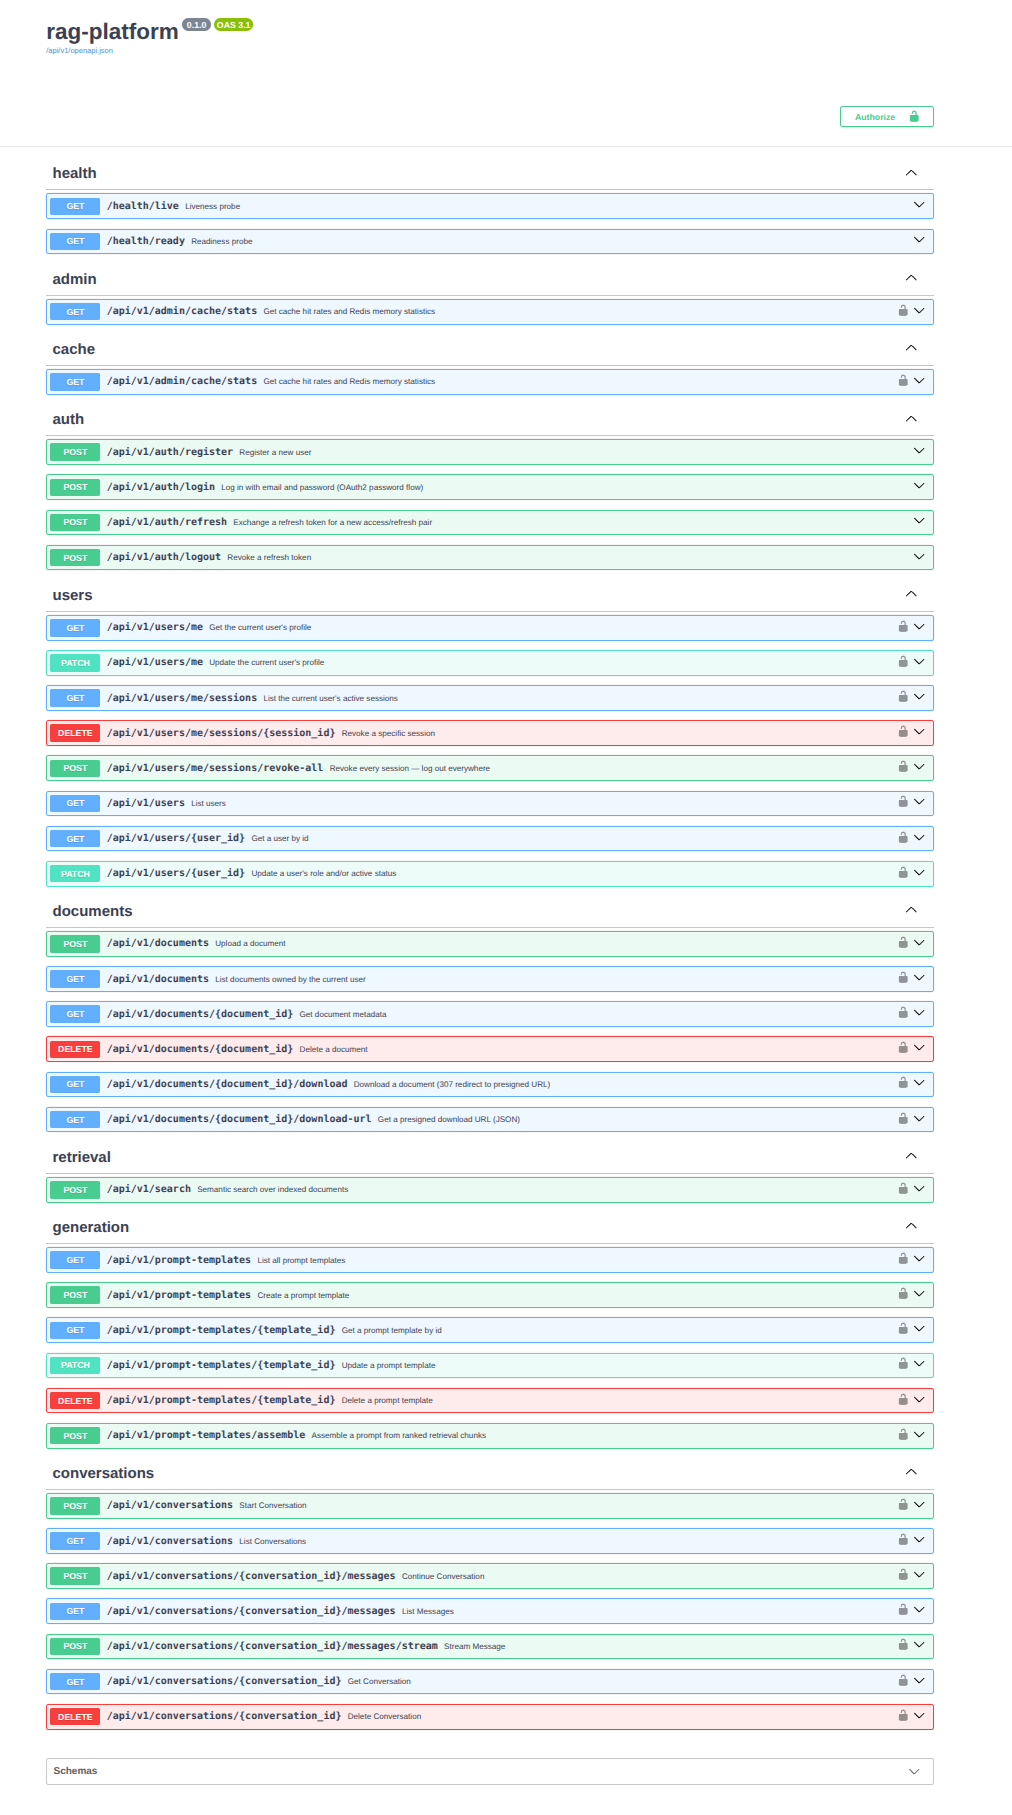
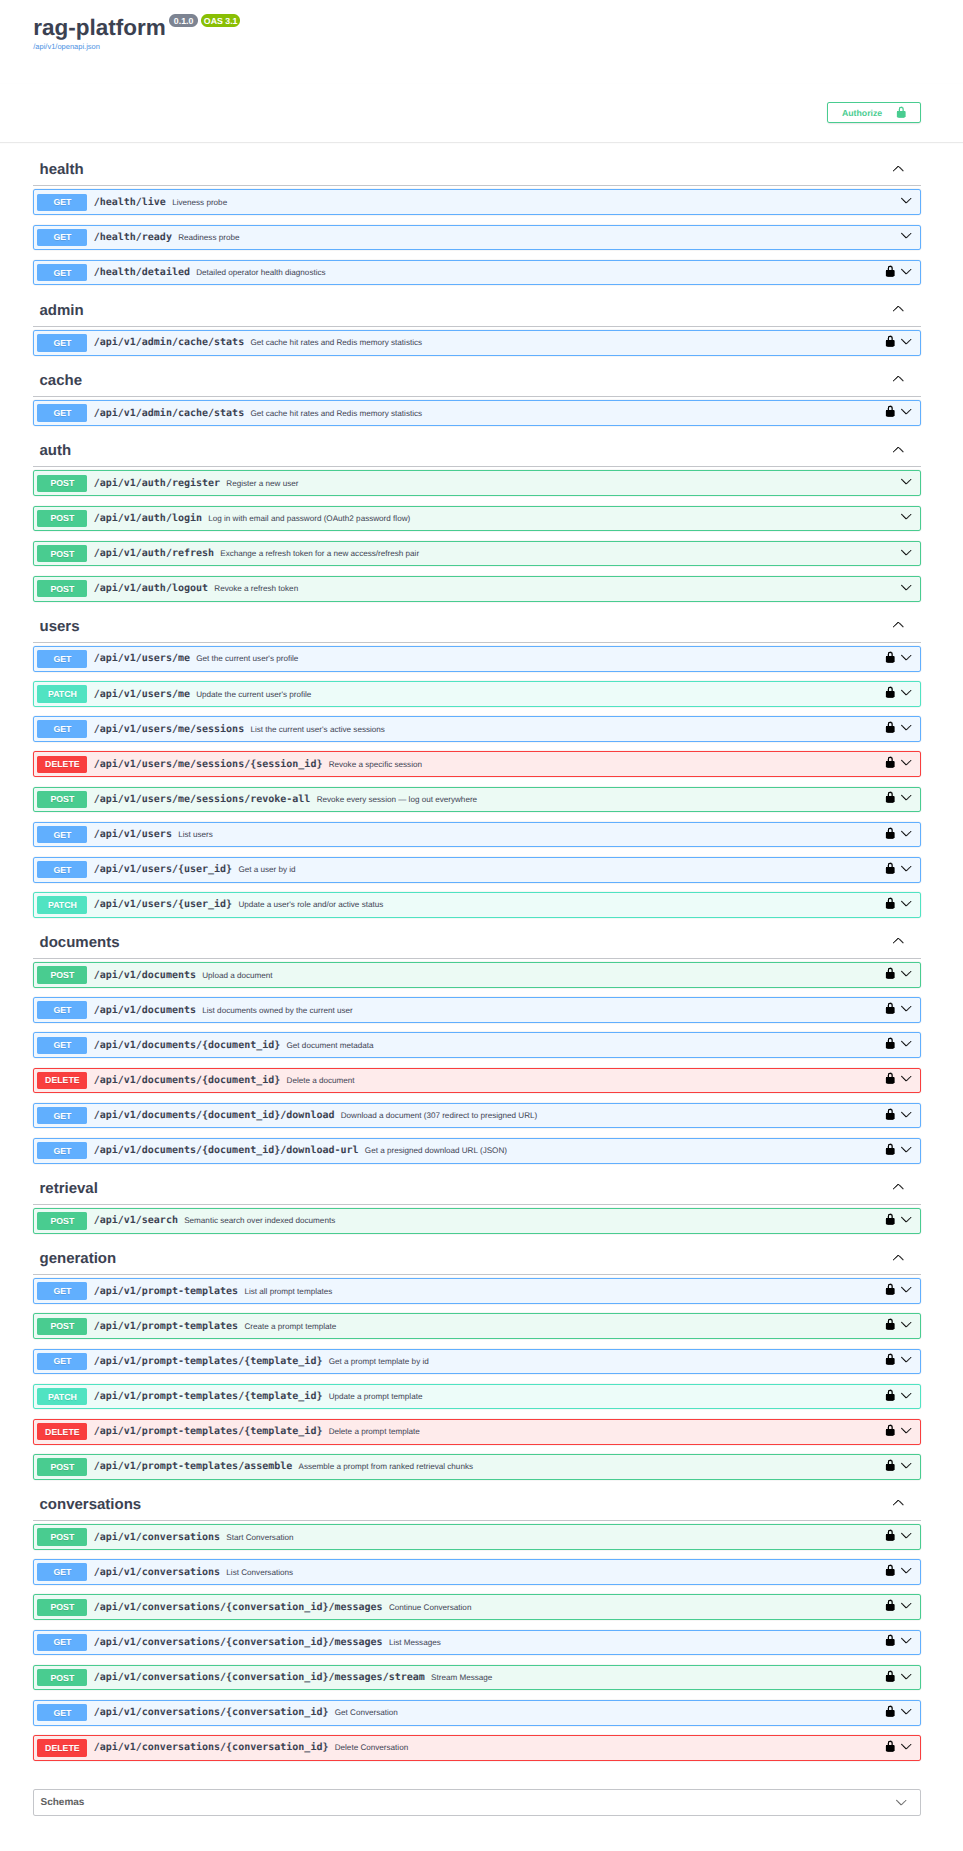
fix: resolve DB Conn Issues, Test Failures, NullPool stats, numpy/scipy compat, and mypy errors

Changed region(s): [[0.0312, 0.0617, 0.9657, 0.9873], [0.0312, 0.0, 0.2492, 0.0309]]

diff --git a/src/rag_platform/core/telemetry.py b/src/rag_platform/core/telemetry.py
@@ -22,19 +22,35 @@ _sqlalchemy_instrumented_engines: set[int] = set()
 
 
 def configure_tracing(settings: Settings) -> None:
-    """Configure process-wide tracing once, using a swappable OTLP exporter."""
+    """Configure process-wide tracing once, using a swappable OTLP exporter.
+
+    No-op when `otel_enabled` is False. Connection failures to the collector
+    are non-fatal — the BatchSpanProcessor will retry in the background and
+    drop spans if the collector remains unreachable.
+    """
     global _configured
     if _configured or not settings.otel_enabled:
         return
-    provider = TracerProvider(
-        resource=Resource.create({"service.name": settings.otel_service_name})
-    )
-    provider.add_span_processor(
-        BatchSpanProcessor(OTLPSpanExporter(endpoint=settings.otel_endpoint))
-    )
-    trace.set_tracer_provider(provider)
-    RedisInstrumentor().instrument()
-    _configured = True
+    try:
+        provider = TracerProvider(
+            resource=Resource.create({"service.name": settings.otel_service_name})
+        )
+        provider.add_span_processor(
+            BatchSpanProcessor(OTLPSpanExporter(endpoint=settings.otel_endpoint))
+        )
+        trace.set_tracer_provider(provider)
+        RedisInstrumentor().instrument()
+        _configured = True
+    except Exception:
+        # Never crash startup over a missing collector.
+        from rag_platform.core.logging import get_logger
+
+        get_logger(__name__).warning(
+            "otel_setup_failed",
+            endpoint=settings.otel_endpoint,
+            hint="Traces will not be exported. Start the OTEL collector or "
+            "set APP_OTEL_ENABLED=false.",
+        )
 
 
 def instrument_sqlalchemy(engine: AsyncEngine, settings: Settings) -> None:

diff --git a/src/rag_platform/core/db.py b/src/rag_platform/core/db.py
@@ -20,7 +20,7 @@ from typing import TYPE_CHECKING
 from sqlalchemy import DateTime, MetaData, func
 from sqlalchemy.ext.asyncio import AsyncEngine, async_sessionmaker, create_async_engine
 from sqlalchemy.orm import DeclarativeBase, Mapped, mapped_column
-from sqlalchemy.pool import NullPool
+from sqlalchemy.pool import AsyncAdaptedQueuePool, NullPool
 
 from rag_platform.core.ids import generate_uuid7
 
@@ -73,18 +73,27 @@ class TimestampMixin:
     )
 
 
-def build_engine(settings: Settings) -> AsyncEngine:
+def build_engine(settings: Settings, *, nullpool: bool = False) -> AsyncEngine:
     """Create the async SQLAlchemy engine from application settings."""
+    pool_kwargs: dict[str, object] = (
+        {"poolclass": NullPool}
+        if nullpool
+        else {
+            "poolclass": AsyncAdaptedQueuePool,
+            "pool_size": settings.database_pool_size,
+            "max_overflow": settings.database_max_overflow,
+        }
+    )
     return create_async_engine(
         settings.database_url,
         echo=settings.database_echo,
-        poolclass=NullPool,
         pool_pre_ping=True,
         connect_args={
             "prepared_statement_cache_size": 0,
             "statement_cache_size": 0,
             "prepared_statement_name_func": lambda: f"__asyncpg_{uuid.uuid4()}__",
         },
+        **pool_kwargs,
     )
 
 

diff --git a/src/rag_platform/di/containers.py b/src/rag_platform/di/containers.py
@@ -142,10 +142,27 @@ async def ensure_storage_bucket(container: Container, settings: Settings) -> Non
     Idempotent — safe to call on every startup. Wraps the synchronous
     `ensure_bucket_exists` in `asyncio.to_thread` so the event loop is not
     blocked during startup.
+
+    In non-production environments, a connection failure is logged as a
+    warning rather than crashing startup — MinIO is only required for
+    document upload; auth, search, and generation work without it.
     """
     import asyncio
 
-    await asyncio.to_thread(ensure_bucket_exists, container.minio_client, settings.minio_bucket)
+    from rag_platform.core.logging import get_logger
+
+    logger = get_logger(__name__)
+    try:
+        await asyncio.to_thread(ensure_bucket_exists, container.minio_client, settings.minio_bucket)
+    except Exception as exc:
+        if settings.is_production:
+            raise
+        logger.warning(
+            "minio_unavailable_at_startup",
+            endpoint=settings.minio_endpoint,
+            error=str(exc),
+            hint="Document upload will fail until MinIO is reachable.",
+        )
 
 
 async def ensure_bootstrap_admin(container: Container, settings: Settings) -> None:

diff --git a/tests/conftest.py b/tests/conftest.py
@@ -32,6 +32,7 @@ from fastapi.testclient import TestClient
 from redis.asyncio import Redis
 from sqlalchemy import text
 from sqlalchemy.ext.asyncio import create_async_engine
+from sqlalchemy.pool import NullPool
 
 from rag_platform.core.config import Environment, LogFormat, Settings
 from rag_platform.core.db import Base
@@ -114,7 +115,7 @@ async def clean_database() -> AsyncIterator[None]:
     pytest-asyncio's per-test event loop, at a small, acceptable per-test
     cost.
     """
-    engine = create_async_engine(TEST_DATABASE_URL)
+    engine = create_async_engine(TEST_DATABASE_URL, poolclass=NullPool)
     async with engine.begin() as connection:
         await connection.execute(text("CREATE SCHEMA IF NOT EXISTS rag_platform"))
         await connection.run_sync(Base.metadata.create_all)

diff --git a/src/rag_platform/indexing/tasks/embed_chunks.py b/src/rag_platform/indexing/tasks/embed_chunks.py
@@ -67,7 +67,7 @@ def _build_embedding_adapter(settings: object, cache_client: object) -> object:
 
 async def _embed(document_id: uuid.UUID) -> int:
     settings = get_settings()
-    engine = build_engine(settings)
+    engine = build_engine(settings, nullpool=True)
     instrument_sqlalchemy(engine, settings)
     session_factory = build_session_factory(engine)
     cache_client = build_sync_redis_client(settings)
@@ -132,7 +132,7 @@ async def _embed(document_id: uuid.UUID) -> int:
 
 async def _mark_chunks_failed(document_id: uuid.UUID) -> None:
     settings = get_settings()
-    engine = build_engine(settings)
+    engine = build_engine(settings, nullpool=True)
     session_factory = build_session_factory(engine)
     try:
         async with session_factory() as session:

diff --git a/src/rag_platform/document_management/tasks/process_document.py b/src/rag_platform/document_management/tasks/process_document.py
@@ -35,7 +35,7 @@ logger = get_logger(__name__)
 
 async def _process(document_id: uuid.UUID) -> int:
     settings = get_settings()
-    engine = build_engine(settings)
+    engine = build_engine(settings, nullpool=True)
     instrument_sqlalchemy(engine, settings)
     session_factory = build_session_factory(engine)
     try:
@@ -74,7 +74,7 @@ async def _process(document_id: uuid.UUID) -> int:
 
 async def _mark_failed(document_id: uuid.UUID) -> None:
     settings = get_settings()
-    engine = build_engine(settings)
+    engine = build_engine(settings, nullpool=True)
     session_factory = build_session_factory(engine)
     try:
         async with session_factory() as session:

diff --git a/src/rag_platform/main.py b/src/rag_platform/main.py
@@ -11,6 +11,14 @@ Uvicorn entry point: `rag_platform.main:app`.
 
 from __future__ import annotations
 
+import fastapi.routing
+
+# Injects the missing 'path' property to satisfy the old OpenTelemetry package
+# The attribute fastapi.routing._IncludedRouter is still missing in FastAPI 0.141.1
+# and opentelemetry-instrumentation-fastapi 0.52b1
+if not hasattr(fastapi.routing._IncludedRouter, "path"):
+    fastapi.routing._IncludedRouter.path = ""  # type: ignore[attr-defined]
+
 from contextlib import AbstractAsyncContextManager, asynccontextmanager
 from typing import TYPE_CHECKING
 

diff --git a/src/rag_platform/core/config.py b/src/rag_platform/core/config.py
@@ -76,7 +76,7 @@ class Settings(BaseSettings):
     log_format: LogFormat = LogFormat.CONSOLE
 
     # -- Observability (Phase 13) -----------------------------------------
-    otel_enabled: bool = True
+    otel_enabled: bool = False
     otel_endpoint: str = "http://localhost:4318/v1/traces"
     otel_service_name: str = "rag-platform"
     prometheus_enabled: bool = True
